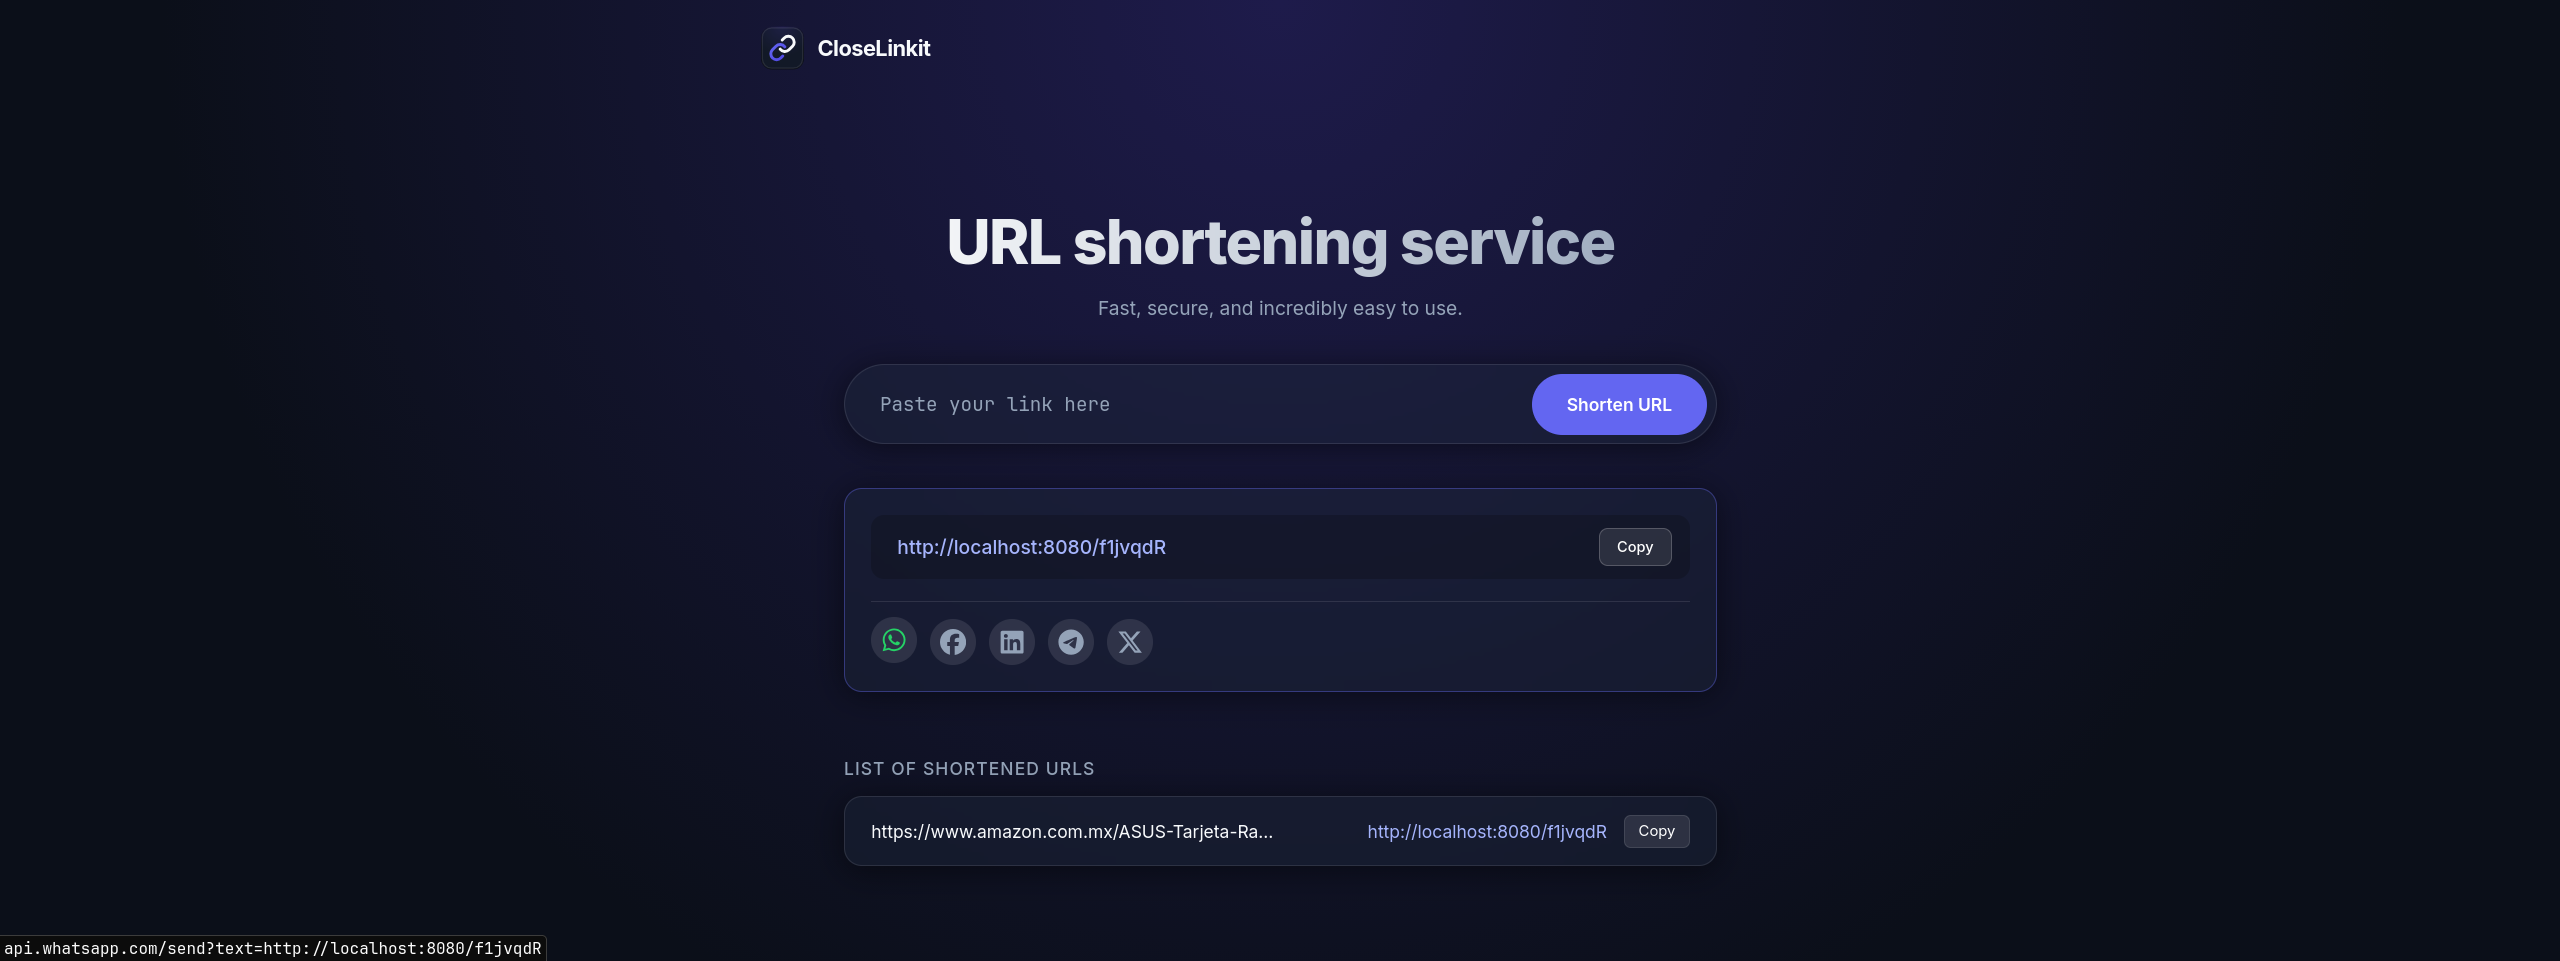
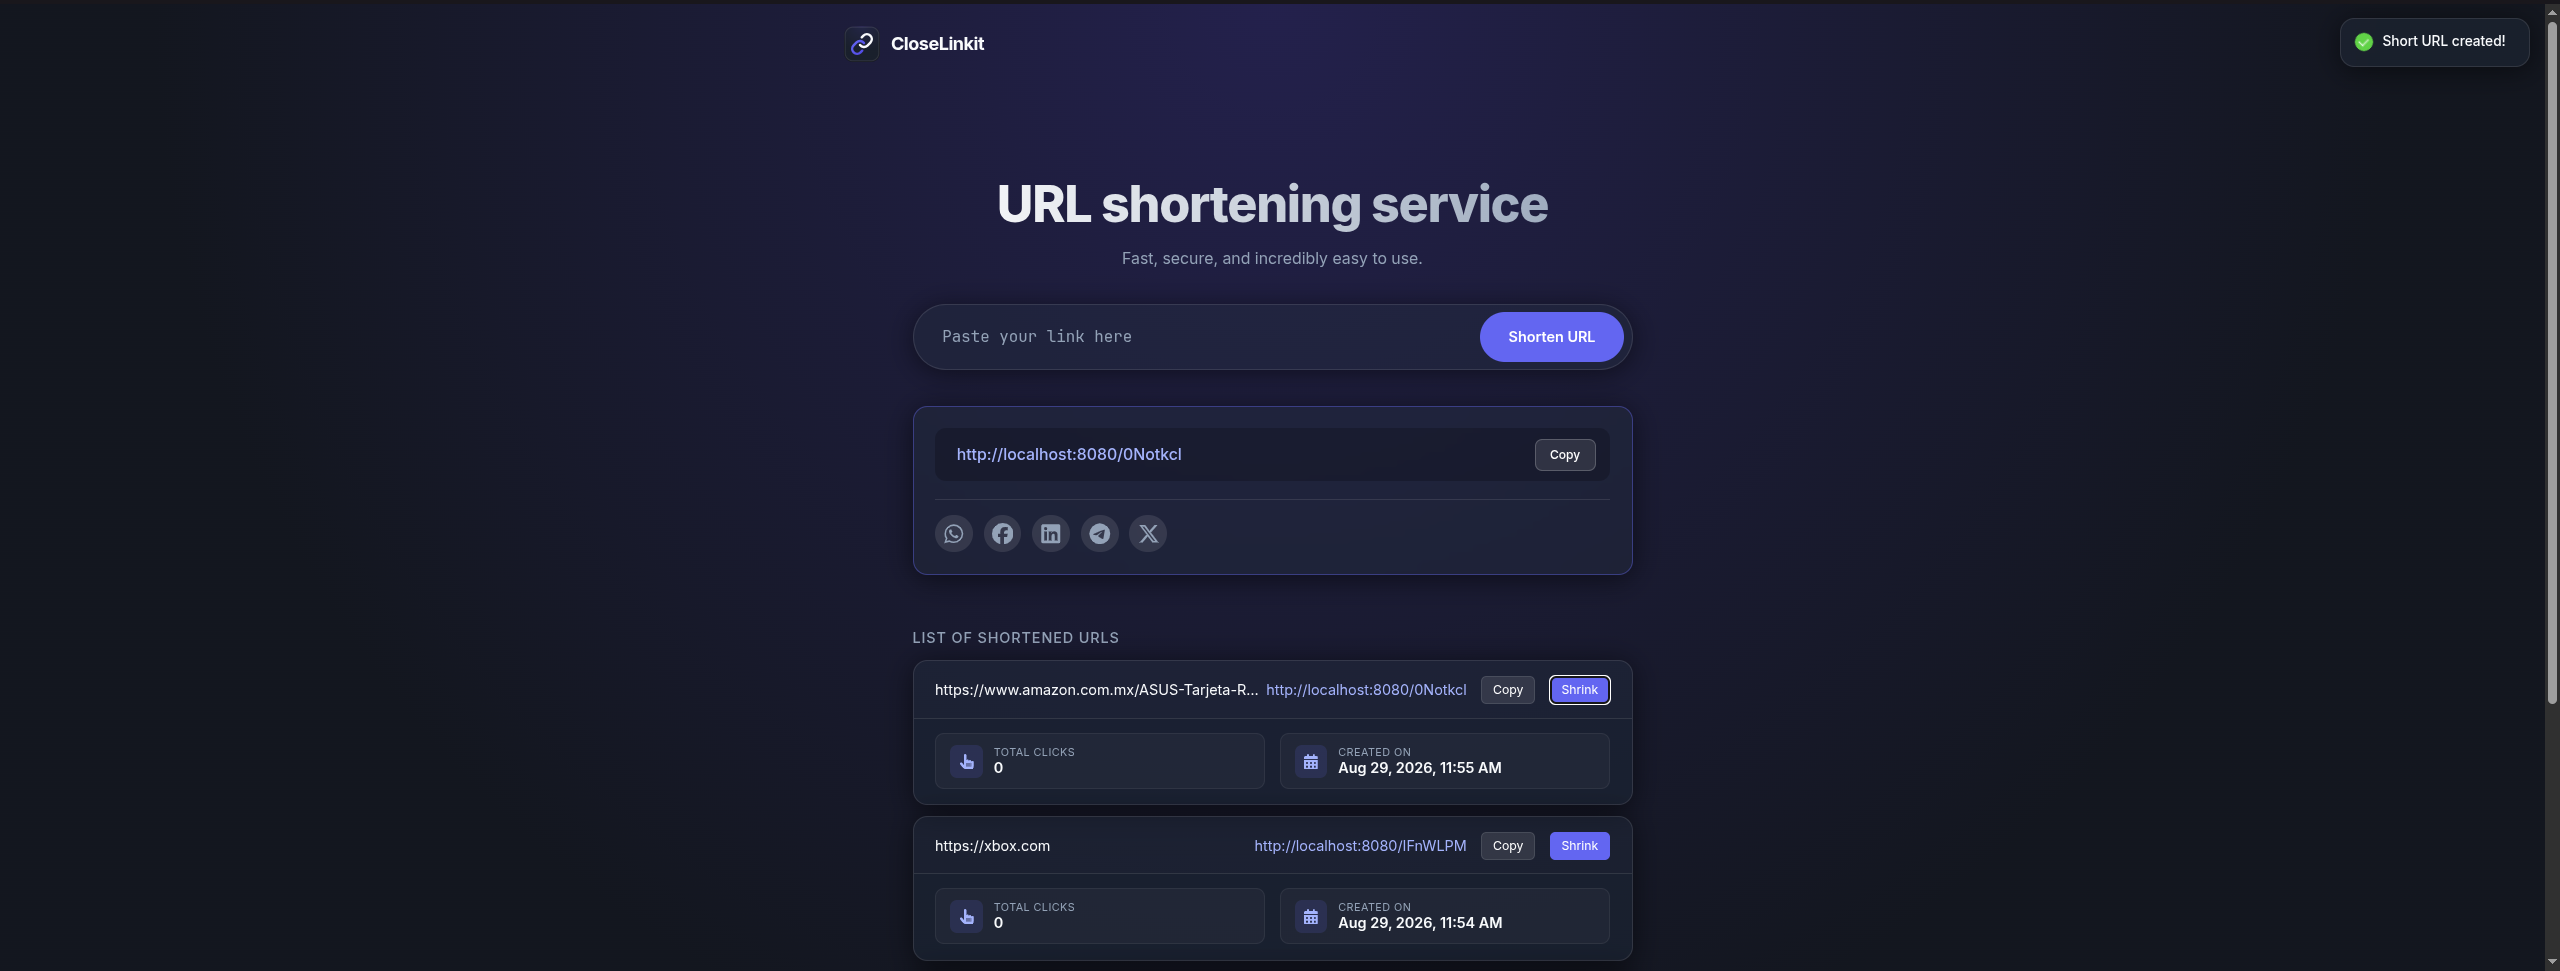
docs: update README with new version and feature details

diff --git a/README.md b/README.md
@@ -5,7 +5,7 @@
 
 CloseLinkit is a URL shortening service composed of a Go backend, a React frontend, and a PostgreSQL database. It exposes a REST API and a web client that allows users to create, retrieve, and resolve shortened URLs.
 
-> **Current Version:** v0.1.0
+> **Current Version:** v0.2.0
 
 ![CloseLinkit Screenshot](docs/screenshot.png)
 
@@ -13,7 +13,7 @@ CloseLinkit is a URL shortening service composed of a Go backend, a React fronte
 
 - **URL Shortening:** Easily shorten long URLs.
 - **Redirection:** Fast and reliable redirection from short codes to original URLs.
-- **Statistics:** Track basic usage stats, like click counts.
+- **Statistics & Analytics:** Track basic usage stats, like click counts and creation timestamps.
 - **Interactive Swagger UI**: Interactive API documentation embedded directly at `/docs/`.
 - **Containerized Environment**: Full containerization via Docker Compose for easy development and deployment.
   
@@ -26,6 +26,9 @@ CloseLinkit is a URL shortening service composed of a Go backend, a React fronte
 | **Database** | PostgreSQL | 18.4 |
 | **SQL Code Generator** | `sqlc` | v1.31.1 |
 | **Database Migrations** | `goose` | v3.27.3 |
+| **Security & Vulnerabilities** | `govulncheck` | Standard Go Tooling |
+| **Testing Frameworks** | Vitest, React Testing Library, MSW | v4 / v16 / v2 |
+| **Linters & Formatters** | `oxlint`, `oxfmt` | v1 / v0.63 |
 | **Orchestration** | Docker & Docker Compose | Compose Specification |
 
 ## Architecture & Data Flow
@@ -172,26 +175,49 @@ The Go backend exposes a clean REST API. Full request/response schemas and inter
 | `GET` | `/docs/` | Serves embedded Swagger UI documentation |
 | `GET` | `/openapi.yaml` | Serves the OpenAPI 3.0 specification file |
 
-## Running Tests
+## Running Tests & Quality Checks
 
-Unit tests are included for backend services, generators, middleware, and handlers.
+CloseLinkit includes full test coverage and automated code quality checks for both backend and frontend.
 
-### Backend Tests
+### Backend Tests & Security Checks
 
-To run all Go backend tests:
+To run Go backend tests and vulnerability analysis:
 
 ```bash
+# Run unit tests
 cd server
 go test ./... -v
+
+# Run unit tests with race detection and coverage
+go test ./... -cover -race
+
+# Run vulnerability scan (via Makefile from project root)
+make govulncheck
 ```
 
-### Frontend Checks
+### Frontend Tests & Code Quality
 
-To run linting and TypeScript compilation checks on the frontend:
+To run frontend tests, linting, and formatting checks:
 
 ```bash
 cd frontend
+
+# Run unit and integration tests (Vitest + MSW)
+npm test
+
+# Run tests in watch mode
+npm run test:watch
+
+# Run linter (oxlint)
 npm run lint
+
+# Check code formatting (oxfmt)
+npm run format-check
+
+# Auto-format code
+npm run format
+
+# Run TypeScript check and production build
 npm run build
 ```
 
@@ -206,7 +232,7 @@ Full architectural decisions and system design documentation can be found in the
 
 Based on our planned evolution in [`docs/architecture.md`](/docs/architecture.md):
 
-- [ ] **Analytics Dashboard**: Visual charts for click rates, referrers, and locations.
+- [x] **Analytics Dashboard**: Analytics panel displaying total click counts and creation timestamp.
 - [ ] **Custom Short URLs**: Allow users to specify custom aliases for shortened links.
 - [ ] **User Authentication**: JWT-based authentication for user sessions.
 - [ ] **User Accounts & Link Management**: Manage, update, and delete created links.
